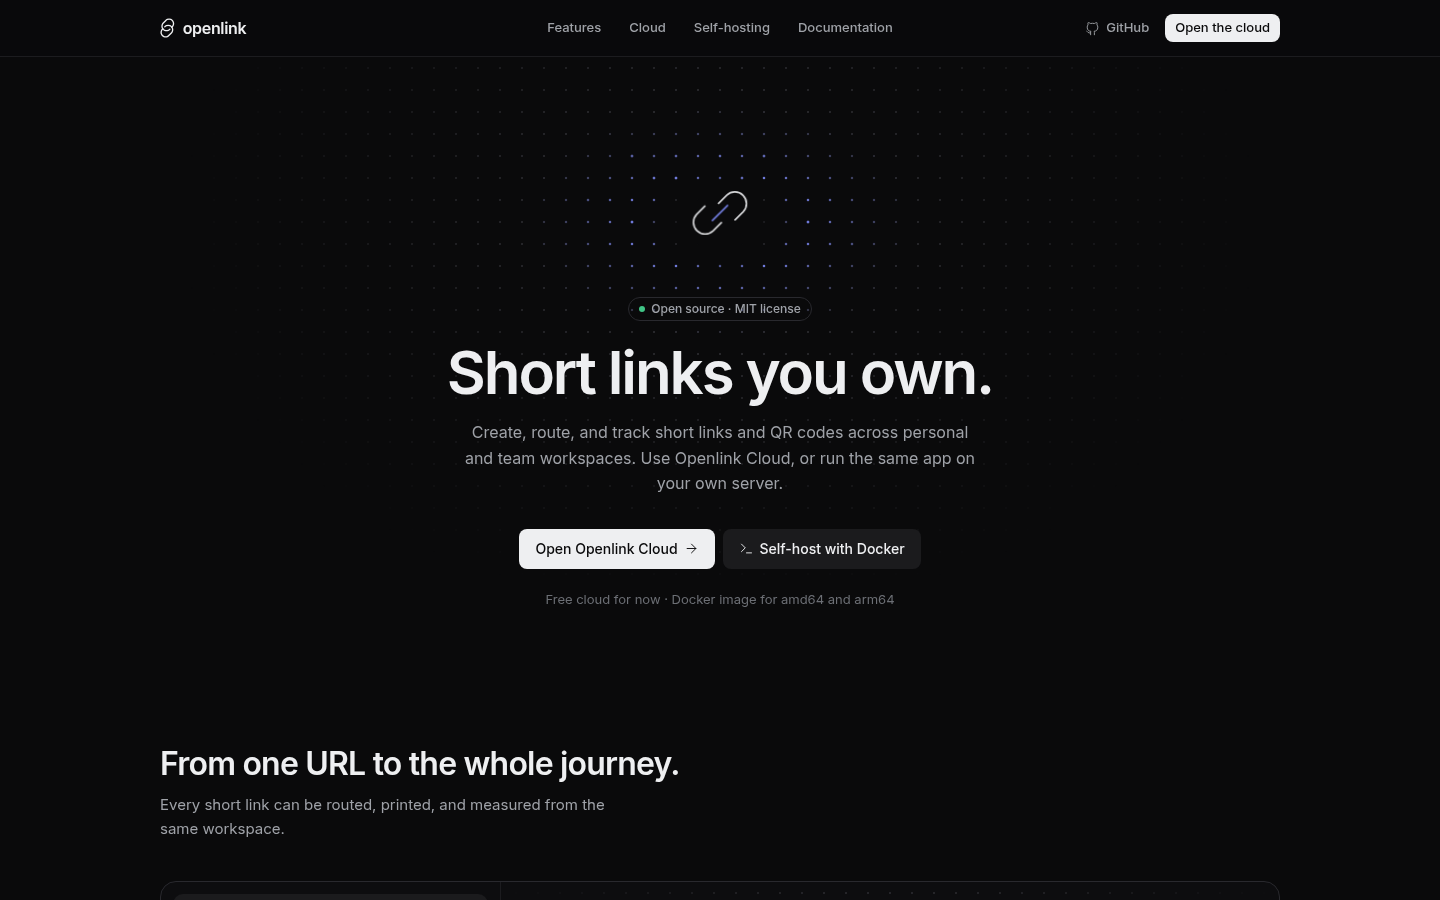
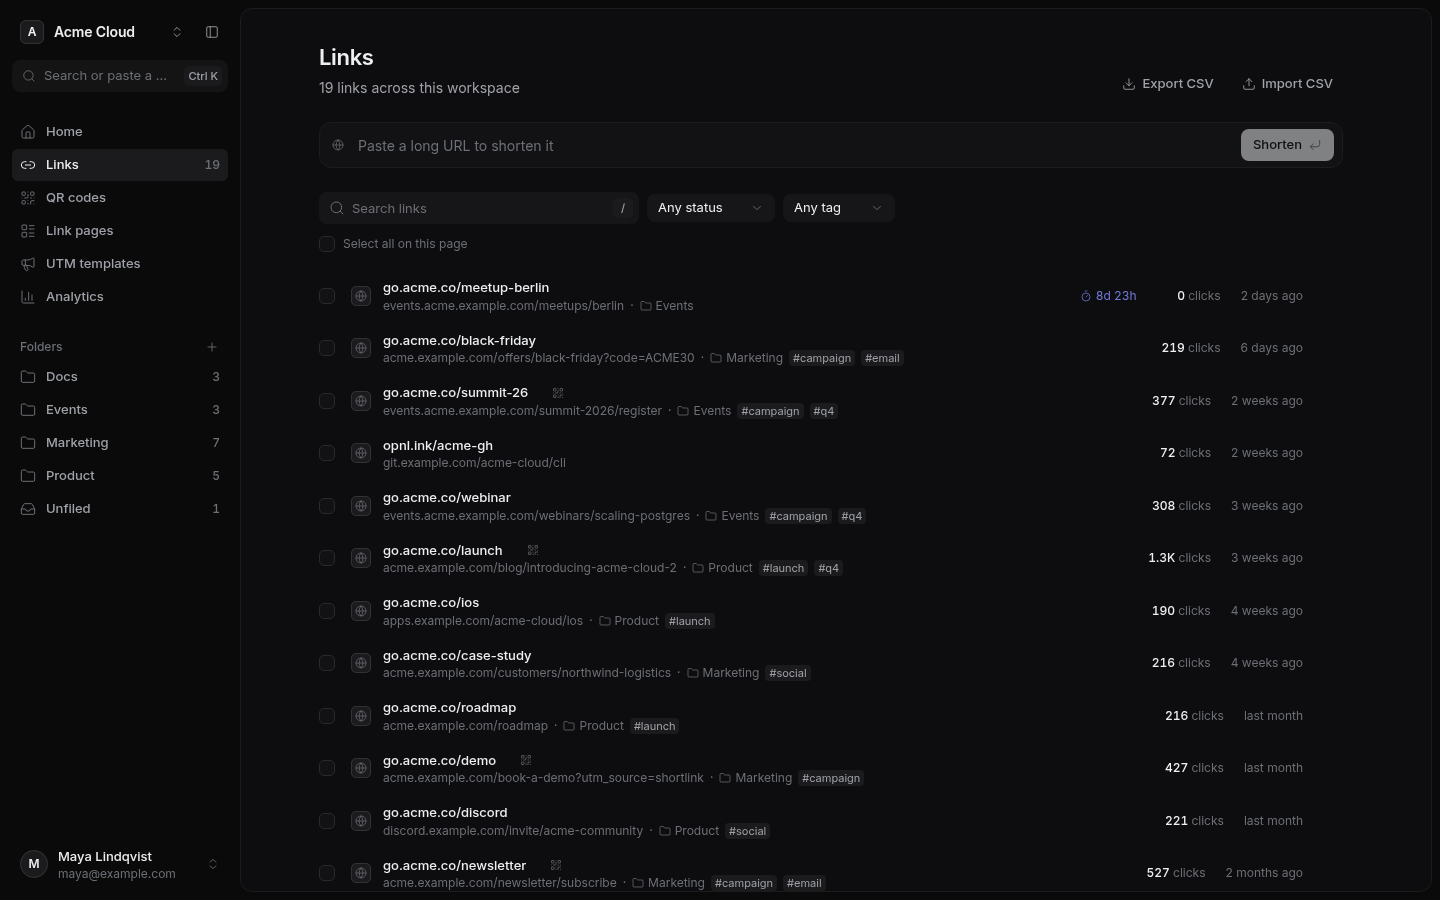
feat(projects): add Clair and Unbanned, real app screenshots
Remove Losyma. Replace landing and test screenshots with app views
captured on mock data for Via, Openlink, Clair, Unbanned, Camescope and
Gitify. Rewrite the Gitify page to match what the app does.

diff --git a/src/content/projects/gitify.md b/src/content/projects/gitify.md
@@ -1,25 +1,27 @@
 ---
 name: "Gitify"
-description: "A GitHub project management tool for organizing repositories into projects and favorites, built with AdonisJS and Nuxt using the Aduxt monorepo stack."
-tags: ["AdonisJS", "Nuxt", "TypeScript", "Docker"]
+description: "A platform that helps developers find open-source GitHub projects matching their level and languages, then keep their favorite repositories at hand. Built with AdonisJS and Nuxt in a Turborepo monorepo."
+tags: ["AdonisJS", "Nuxt", "TypeScript", "Tuyau", "PostgreSQL", "Docker"]
 github: "https://github.com/rchrdkvcs/gitify"
-order: 10
+order: 12
 ---
+
+![Explore page with projects matched to the user's languages](./images/gitify-1.png)
 
 ## The Idea
 
-GitHub gives you stars. That's about it for organizing repos. No folders, no groups, no "these five repos are all part of project X." Gitify fills that gap — it lets you group repositories into projects and mark favorites so you can actually navigate your own work.
+Finding a first open-source contribution is harder than it should be. GitHub search returns thousands of repositories with no sense of which ones welcome newcomers. Gitify narrows it down: pick a level and your languages, and get a feed of active projects that need help.
 
 ## What It Does
 
-- **Projects** — Group related repos under a named project
-- **Favorites** — Pin repos you access daily
-- **Dashboard** — One view for everything, instead of scrolling through github.com/your-profile
+- **GitHub sign-in**: OAuth only, with the session kept in an HTTP-only cookie
+- **Preferences**: beginner (projects with "good first issues") or expert (popular projects with "help wanted"), across 12 languages
+- **Personalized feed**: up to 60 projects, spread evenly across the selected languages
+- **Project pages**: README, language breakdown and contributors, fetched from GitHub on demand and cached for 7 days
+- **Favorites**: save repositories to come back to them later
+
+![Project page with README, stats, contributors and languages](./images/gitify-2.png)
 
 ## Built With Aduxt
 
-Gitify was the first real project I bootstrapped with Create Aduxt. It validated the whole approach: scaffold → tweak → ship. The type-safe Tuyau connection between Nuxt and AdonisJS made building the CRUD operations feel almost effortless.
-
-## Development Setup
-
-Docker Compose handles the dev environment. Clone, `docker compose up`, and you're running. No local PostgreSQL install needed, no fiddling with environment variables — the defaults work out of the box.
+Gitify runs on the stack I packaged in Create Aduxt: AdonisJS 7 for the API, Nuxt 4 with Nuxt UI for the frontend, and Tuyau for type-safe calls between them. The monorepo uses pnpm workspaces and Turborepo, the API exposes an OpenAPI spec, and Docker Compose runs the whole dev environment.

diff --git a/src/content/projects/clair.md b/src/content/projects/clair.md
@@ -1,0 +1,33 @@
+---
+name: "Clair"
+description: "A personal budgeting app in French: plan income, bills, subscriptions and installment purchases, then optionally sync your bank account and match real transactions against the plan."
+tags: ["AdonisJS", "Vue", "Inertia.js", "TypeScript", "PostgreSQL", "shadcn-vue", "Open Banking"]
+order: 4
+---
+
+## Context
+
+Most budgeting apps either want full access to your bank from day one or stay stuck at a spreadsheet. Clair starts with a plan you enter by hand, and the bank connection is optional. When it is on, real transactions confirm the plan instead of duplicating it.
+
+![Monthly overview with key figures, payment calendar and six-month history](./images/clair-1.png)
+
+## What's inside
+
+- One-off, monthly and yearly income
+- Everyday expenses by category, monthly envelopes for variable spending, and savings shown apart from expenses
+- Fixed charges and subscriptions with an optional end date
+- Installment purchases with fees spread across the schedule, the last payment adjusting the cents
+- A monthly overview with a six-month history, upcoming payments and a yearly payment calendar
+- Clear figures: what is left to live on after fixed commitments, and what is left to spend this month
+
+![Operations list mixing expenses, subscriptions and fixed charges](./images/clair-2.png)
+
+![Installment plans with progress, monthly payment and fees](./images/clair-3.png)
+
+## Bank sync and matching
+
+An optional Enable Banking connection imports balances and transactions. Each transaction can be matched to a planned payment, including partial payments, refunds, splits, and date or amount gaps. Classification rules file similar transactions automatically, with a preview of the past transactions they would have matched. Clair never initiates a payment.
+
+## Stack
+
+AdonisJS 7, Inertia 3, Vue 3, Lucid and PostgreSQL, Tailwind CSS 4, shadcn-vue and Reka UI. Amounts are stored as integer cents. Oxlint, Oxfmt, unit, functional and Playwright browser tests run in CI.

diff --git a/src/content/projects/unbanned.md b/src/content/projects/unbanned.md
@@ -1,0 +1,32 @@
+---
+name: "Unbanned"
+description: "A ban appeal platform for Discord communities: banned members file an appeal, and the moderation team reviews, discusses and decides it with a Discord bot keeping both sides informed."
+tags: ["AdonisJS", "Vue", "Inertia.js", "TypeScript", "Discord", "PostgreSQL", "Docker"]
+order: 3
+---
+
+## Context
+
+On Discord, a ban is usually final: the banned member has no way to ask for a second look, and moderators end up handling appeals in DMs or scattered forms. Unbanned gives each community a proper appeal process, connected to Discord itself.
+
+![Reviewer queue with claimed and unclaimed appeals](./images/unbanned-1.png)
+
+## How it works
+
+- A banned member signs in with Discord, reads the server's appeal instructions, and files an appeal
+- Reviewers, chosen by Discord role, see pending appeals with the ban author and reason pulled from the audit log
+- A reviewer claims an appeal so the team does not handle it twice; the claim expires after 30 minutes of inactivity
+- Internal notes stay with the staff, while the decision always comes with a public response, optionally started from a response template
+- An accepted appeal lifts the ban on Discord, and the bot notifies the member
+
+![Appeal detail with ban context and the decision panel](./images/unbanned-2.png)
+
+![Banned member filing an appeal](./images/unbanned-3.png)
+
+## Built for real communities
+
+Server managers configure everything from their Discord permissions: no separate accounts. Managers can suspend a reviewer's access without touching their Discord roles. Platform administrators monitor technical health without seeing private appeal content. Personal data processing, retention periods, backups and restore procedures are documented.
+
+## Stack
+
+AdonisJS, Inertia.js, Vue 3, TypeScript, Tailwind CSS 4 and PostgreSQL, with a background job worker and a Discord gateway process. Released as a Docker image, with unit, functional and browser tests in CI.

diff --git a/src/content/projects/camescope.md b/src/content/projects/camescope.md
@@ -3,12 +3,14 @@ name: "Camescope"
 description: "A WebRTC streaming tool for esports broadcasts: remote players share their camera from a link, and an admin panel composes them into OBS layouts in real time."
 tags: ["AdonisJS", "Vue", "Inertia.js", "WebRTC", "mediasoup", "Socket.IO", "Docker"]
 github: "https://github.com/rchrdkvcs/camescope"
-order: 6
+order: 8
 ---
 
 ## Context
 
 During online tournaments, casters want to show player cameras on stream. Asking every player to set up their own streaming software does not scale. Camescope gives each player a link: they open it, allow their camera, and the production team gets the feed directly in OBS.
+
+![Guest page publishing a camera feed, with a QR code to join from a phone](./images/camescope-1.png)
 
 ## How it works
 
@@ -19,6 +21,8 @@ The app has three views:
 - **OBS**: a browser source that renders the live composition for the broadcast
 
 Sessions move from draft to active to finished. Layouts are stored as JSON configurations (camera positions, sizes, background), with presets and custom layouts that can be duplicated and edited.
+
+![OBS overlay showing five live player cameras](./images/camescope-2.png)
 
 ## Real-time media
 

diff --git a/src/content/projects/via.md b/src/content/projects/via.md
@@ -6,7 +6,7 @@ github: "https://github.com/rchrdkvcs/via-terminal"
 order: 1
 ---
 
-![Via, remote file browser in its own tab](./images/via-1.png)
+![Split view with htop over SSH next to a live deploy and its logs](./images/via-1.png)
 
 ## Context
 
@@ -22,7 +22,9 @@ I spend my days jumping between local shells and remote servers. Most terminals 
 - A remote SFTP explorer, docked beside a terminal or in its own tab, with transfers and in-app editing
 - Signed in-app updates, published as installers on GitHub Releases
 
-![SFTP explorer docked beside an SSH session](./images/via-2.png)
+![Local project tab with git status, git log and a test run](./images/via-2.png)
+
+![Vault with hosts grouped by environment and their inherited identity](./images/via-3.png)
 
 ## Local first
 

diff --git a/src/content/projects/openlink.md b/src/content/projects/openlink.md
@@ -7,7 +7,7 @@ demo: "https://opnlnk.app"
 order: 2
 ---
 
-![Openlink landing page](./images/openlink-1.png)
+![Links list with custom domain, folders, tags and click counts](./images/openlink-1.png)
 
 ## Context
 
@@ -21,7 +21,9 @@ I built Openlink as a self-hosted alternative for managing short links across pe
 - Customizable QR codes and privacy-conscious analytics
 - Email/password authentication, two-factor authentication, optional Google and Discord sign-in, user API tokens, and an HTTP API
 
-![Link journey: create, route, share as QR, measure](./images/openlink-2.png)
+![30-day analytics for a launch link, with visits and QR scans](./images/openlink-2.png)
+
+![QR code editor with a styled dot pattern](./images/openlink-3.png)
 
 ## Stack
 

diff --git a/src/content/projects/celia.md b/src/content/projects/celia.md
@@ -3,7 +3,7 @@ name: "Celia Extension"
 description: "Celia is a small extension designed to provide simple and useful utilities for locally hosted AI models using Ollama. It includes features such as spelling and grammar correction, as well as translation across around 10 languages."
 tags: ["WXT", "Vue", "TailwindCSS", "Nuxt UI"]
 github: "https://github.com/rchrdkvcs/celia-extension"
-order: 16
+order: 18
 ---
 
 ![](./images/celia-1.png)

diff --git a/src/content/projects/pokerify.md b/src/content/projects/pokerify.md
@@ -3,7 +3,7 @@ name: "Pokerify"
 description: "A REST API for simulating Texas Hold'em poker games with JWT authentication, AI opponents, and full game logic including hand evaluation and betting rounds."
 tags: ["NestJS", "MongoDB", "TypeScript", "Docker"]
 github: "https://github.com/rchrdkvcs/pokerify"
-order: 13
+order: 15
 ---
 
 ## A Poker Engine, Not a Poker Game

diff --git a/src/content/projects/soundvault.md b/src/content/projects/soundvault.md
@@ -3,7 +3,7 @@ name: "SoundVault"
 description: "A full-stack music platform for producers and sound designers to upload, share, and discover VST presets and sound packs, built as a PWA with Vue 3 and AdonisJS."
 tags: ["Vue", "AdonisJS", "TypeScript", "PostgreSQL"]
 github: "https://github.com/rchrdkvcs/soundvault.cloud"
-order: 12
+order: 14
 ---
 
 ## Context

diff --git a/src/content/projects/guide-michelin.md b/src/content/projects/guide-michelin.md
@@ -4,7 +4,7 @@ description: "A French Guide Michelin redesign built with Nuxt 4, Vue, Nuxt UI, 
 tags: ["Nuxt 4", "Vue", "TypeScript", "Nuxt UI", "Tailwind CSS 4"]
 github: "https://github.com/rchrdkvcs/guide.michelin.com"
 demo: "https://michelin.rchrdkvcs.dev"
-order: 9
+order: 11
 ---
 
 ![Guide Michelin redesign home page](./images/guide-michelin-1.png)

diff --git a/src/content/projects/ox-lib-reskin.md b/src/content/projects/ox-lib-reskin.md
@@ -3,7 +3,7 @@ name: "Ox Lib Reskin"
 description: "A custom UI reskin for the ox_lib FiveM resource, providing a modern and clean redesign of menus, notifications, and context panels for roleplay servers."
 tags: ["TypeScript", "React", "FiveM", "Lua"]
 github: "https://github.com/rchrdkvcs/ox-lib-reskin"
-order: 15
+order: 17
 ---
 
 ## 5 Stars, 1 Fork

diff --git a/src/content/projects/luminar.md b/src/content/projects/luminar.md
@@ -3,7 +3,7 @@ name: "Luminar"
 description: "A Windows desktop utility that turns monitor screens into adjustable soft lights for streaming, with per-display controls and OBS capture exclusion."
 tags: ["Vue", "TypeScript", "Windows", "Desktop", "Streaming"]
 github: "https://github.com/rchrdkvcs/luminar"
-order: 11
+order: 13
 ---
 
 ## Context
